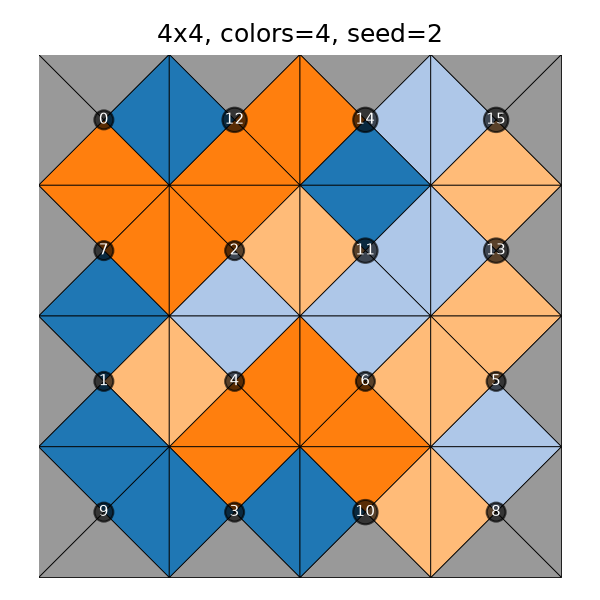
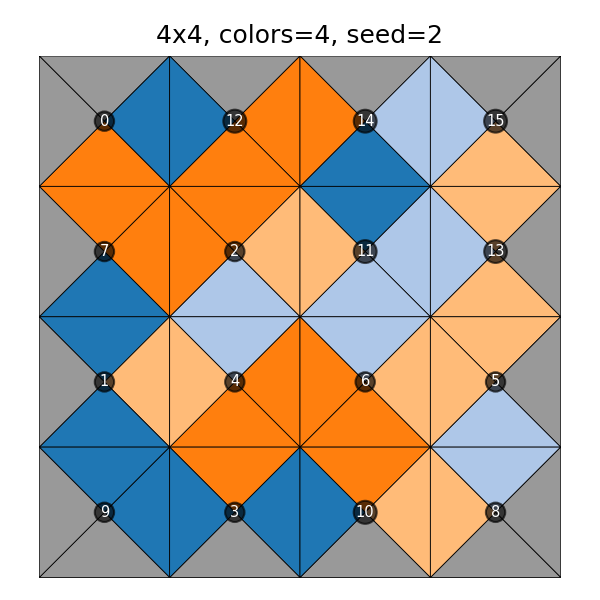
quantify the timing + infeasibility

diff --git a/tests/test_core.py b/tests/test_core.py
@@ -1,6 +1,6 @@
 import pytest
 
-from eternity.generator import generate_instance
+from eternity.generator import generate_instance, make_infeasible_instance
 from eternity.model import GRAY, Piece
 from eternity.solvers.cpsat_solver import solve_cpsat
 from eternity.solvers.ilp_solver import solve_ilp
@@ -95,3 +95,19 @@ def test_render_solution_writes_a_nonempty_png(tmp_path):
     render_solution(instance, result.solution, str(out), title="test", show_piece_ids=True)
     assert out.exists()
     assert out.stat().st_size > 0
+
+
+@pytest.mark.parametrize("n", [3, 4, 5])
+def test_cpsat_proves_infeasibility_not_timeout(n):
+    instance = make_infeasible_instance(n, n, n, seed=1)
+    result = solve_cpsat(instance, time_limit_s=30.0)
+    assert result.status == "INFEASIBLE"
+    assert result.solution is None
+
+
+@pytest.mark.parametrize("n", [3, 4, 5])
+def test_ilp_proves_infeasibility_not_timeout(n):
+    instance = make_infeasible_instance(n, n, n, seed=1)
+    result = solve_ilp(instance, time_limit_s=30.0)
+    assert result.status == "Infeasible"
+    assert result.solution is None

diff --git a/src/eternity/generator.py b/src/eternity/generator.py
@@ -51,3 +51,26 @@ def generate_instance(
 
     pieces = tuple(Piece(id=i, edges=e) for i, e in enumerate(scrambled))
     return PuzzleInstance(n_rows=n_rows, n_cols=n_cols, pieces=pieces)
+
+
+def make_infeasible_instance(
+    n_rows: int,
+    n_cols: int,
+    n_colors: int,
+    seed: Optional[int] = None,
+) -> PuzzleInstance:
+
+    instance = generate_instance(n_rows, n_cols, n_colors, seed=seed)
+    pieces = list(instance.pieces)
+
+    for i, p in enumerate(pieces):
+        if GRAY in p.edges:
+            idx = p.edges.index(GRAY)
+            new_edges = list(p.edges)
+            new_edges[idx] = n_colors + 1  # a color that exists nowhere else in the instance
+            pieces[i] = Piece(id=p.id, edges=tuple(new_edges))
+            break
+    else:
+        raise AssertionError("expected at least one GRAY edge somewhere in a valid instance")
+
+    return PuzzleInstance(n_rows=n_rows, n_cols=n_cols, pieces=tuple(pieces))

diff --git a/README.md b/README.md
@@ -223,6 +223,94 @@ time on cases already known to time out (see takeaways).
 | 6x6 | 6 (tight) | Not Solved (timed out) | 120.03s (cap) |
 | 6x6 | 12 (loose) | Optimal | 46.59s |
 
+### Seed variance
+
+The two tables above use one seed per configuration, and it turned out
+those single numbers aren't trustworthy on their own. To find out how
+much they vary, three more seeds were run per size at the "tight"
+(colors = n) setting: 5x5 through 8x8 for CP-SAT, 3x3 through 5x5 for
+CBC. Raw data in `benchmark_variance.csv`.
+
+**CP-SAT (tight):**
+
+| size | min | median | max | spread (max/min) |
+|---|---|---|---|---|
+| 5x5 | 0.10s | 0.32s | 0.38s | 4.0x |
+| 6x6 | 0.92s | 0.96s | 0.98s | 1.1x |
+| 7x7 | 5.61s | 6.05s | 8.09s | 1.4x |
+| 8x8 | 11.28s | 50.79s | 141.86s | 12.6x |
+
+**PuLP/CBC (tight):**
+
+| size | min | median | max | spread (max/min) |
+|---|---|---|---|---|
+| 3x3 | 0.01s | 0.01s | 0.01s | 1.2x |
+| 4x4 | 0.03s | 0.57s | 0.92s | 31.3x |
+| 5x5 | 1.86s | 5.45s | 15.49s | 8.3x |
+
+The 8x8 CP-SAT row matters most: the single-seed table above shows
+17.97s, which reads like a comfortably solved size. Three more seeds
+ranged from 11s to 142s, and the slow one needed a 180s budget (three
+times the original 60s cap) before it finished. Every 8x8 tight
+instance tried did eventually solve, so 8x8 isn't actually beyond
+CP-SAT's reach, but "solves in about 18s" was never a fair
+characterization of the size; it was one sample from a wide
+distribution. CBC shows the same pattern even more sharply: a 31x
+spread at 4x4, on instances that only take a second either way. A
+single seed is not a reliable read on a configuration's difficulty,
+for either solver.
+
+### Infeasibility check
+
+`make_infeasible_instance()` (in `generator.py`) builds a provably
+infeasible instance without needing a solver run to confirm it: it
+takes a normal solvable instance and changes one GRAY edge on one
+piece to a color that appears nowhere else. A solvable n x n board
+needs exactly 4n GRAY edges spread across its pieces (one per
+border-facing slot); after the change there are only 4n - 1, so by a
+simple counting argument at least one border slot cannot end up GRAY,
+whatever arrangement is tried. That holds independent of solver
+internals, which makes it a good check that "no solution exists" gets
+reported correctly rather than confused with "ran out of time."
+
+**CP-SAT:**
+
+| size | status | time |
+|---|---|---|
+| 3x3 | INFEASIBLE | 0.02s |
+| 4x4 | INFEASIBLE | 0.02s |
+| 5x5 | INFEASIBLE | 0.07s |
+| 6x6 | INFEASIBLE | 0.20s |
+| 7x7 | INFEASIBLE | 0.36s |
+| 8x8 | INFEASIBLE | 1.27s |
+| 9x9 | INFEASIBLE | 9.24s |
+| 10x10 | INFEASIBLE | 12.86s |
+
+**PuLP/CBC** (tested at smaller sizes, matching its practical range):
+
+| size | status | time |
+|---|---|---|
+| 3x3 | Infeasible | 0.57s |
+| 4x4 | Infeasible | 0.02s |
+| 5x5 | Infeasible | 0.04s |
+
+Both solvers report the correct status at every size tested, never a
+timeout. Worth noting: proving infeasibility at 9x9 and 10x10 (9.24s,
+12.86s) is far faster than the single-seed *solvable* tight instances
+at those same sizes ever managed (they hit their 90s and 60s caps and
+came back UNKNOWN, see the CP-SAT table above). That's not a
+contradiction: "prove no valid tiling exists" and "find one specific
+valid tiling among an astronomically large space of near-misses" are
+different computational problems. This particular kind of
+infeasibility, a global counting/pigeonhole violation, is one
+CP-SAT's propagation catches quickly, well before it would need to
+explore anything like the search space a hard solvable instance
+requires.
+
+Regression-tested in `tests/test_core.py`
+(`test_cpsat_proves_infeasibility_not_timeout`,
+`test_ilp_proves_infeasibility_not_timeout`).
+
 ### Takeaways
 
 - **CP-SAT dominates once problems are non-trivial, but not at the
@@ -250,13 +338,15 @@ time on cases already known to time out (see takeaways).
 - **UNKNOWN (CP-SAT) and "Not Solved" (CBC) both mean "ran out of
   time," never "possibly unsolvable."** Every instance is generated
   via reverse construction (see `generator.py`), so a solution is
-  guaranteed to exist.
-- **Single-seed timings are noisy for both solvers.** Rerunning the
-  CP-SAT sweep for this comparison gave different absolute numbers
-  from the Phase 2 run (7x7 tight: 6.06s here vs. 23.56s before; 8x8
-  tight: 17.97s here vs. 10.72s before): same conclusions both
-  times, different numbers. A later benchmark pass should run
-  multiple seeds and report medians, not single points.
+  guaranteed to exist, and the separate infeasibility check above
+  confirms both solvers report genuine infeasibility distinctly from
+  a timeout when a solution truly doesn't exist.
+- **Single-seed timings understate the real variance, badly at some
+  sizes.** See the seed variance section above: a single 8x8 CP-SAT
+  sample can be off by more than 12x from another equally valid
+  sample at the identical size and color count. Any claim about
+  "where an approach breaks down" should be read as a rough band,
+  not a precise line, unless it's backed by multiple seeds.
 
 ## Layout
 
@@ -277,7 +367,8 @@ scripts/
   render_examples.py        # regenerates assets/*.png
 tests/                      # pytest suite
 assets/                     # example rendered boards (used in this README)
-benchmark_results.csv      # latest recorded sweep, both solvers
+benchmark_results.csv      # latest single-seed sweep, both solvers
+benchmark_variance.csv     # multi-seed variance check (see benchmark section)
 ```
 
 ## Reference
